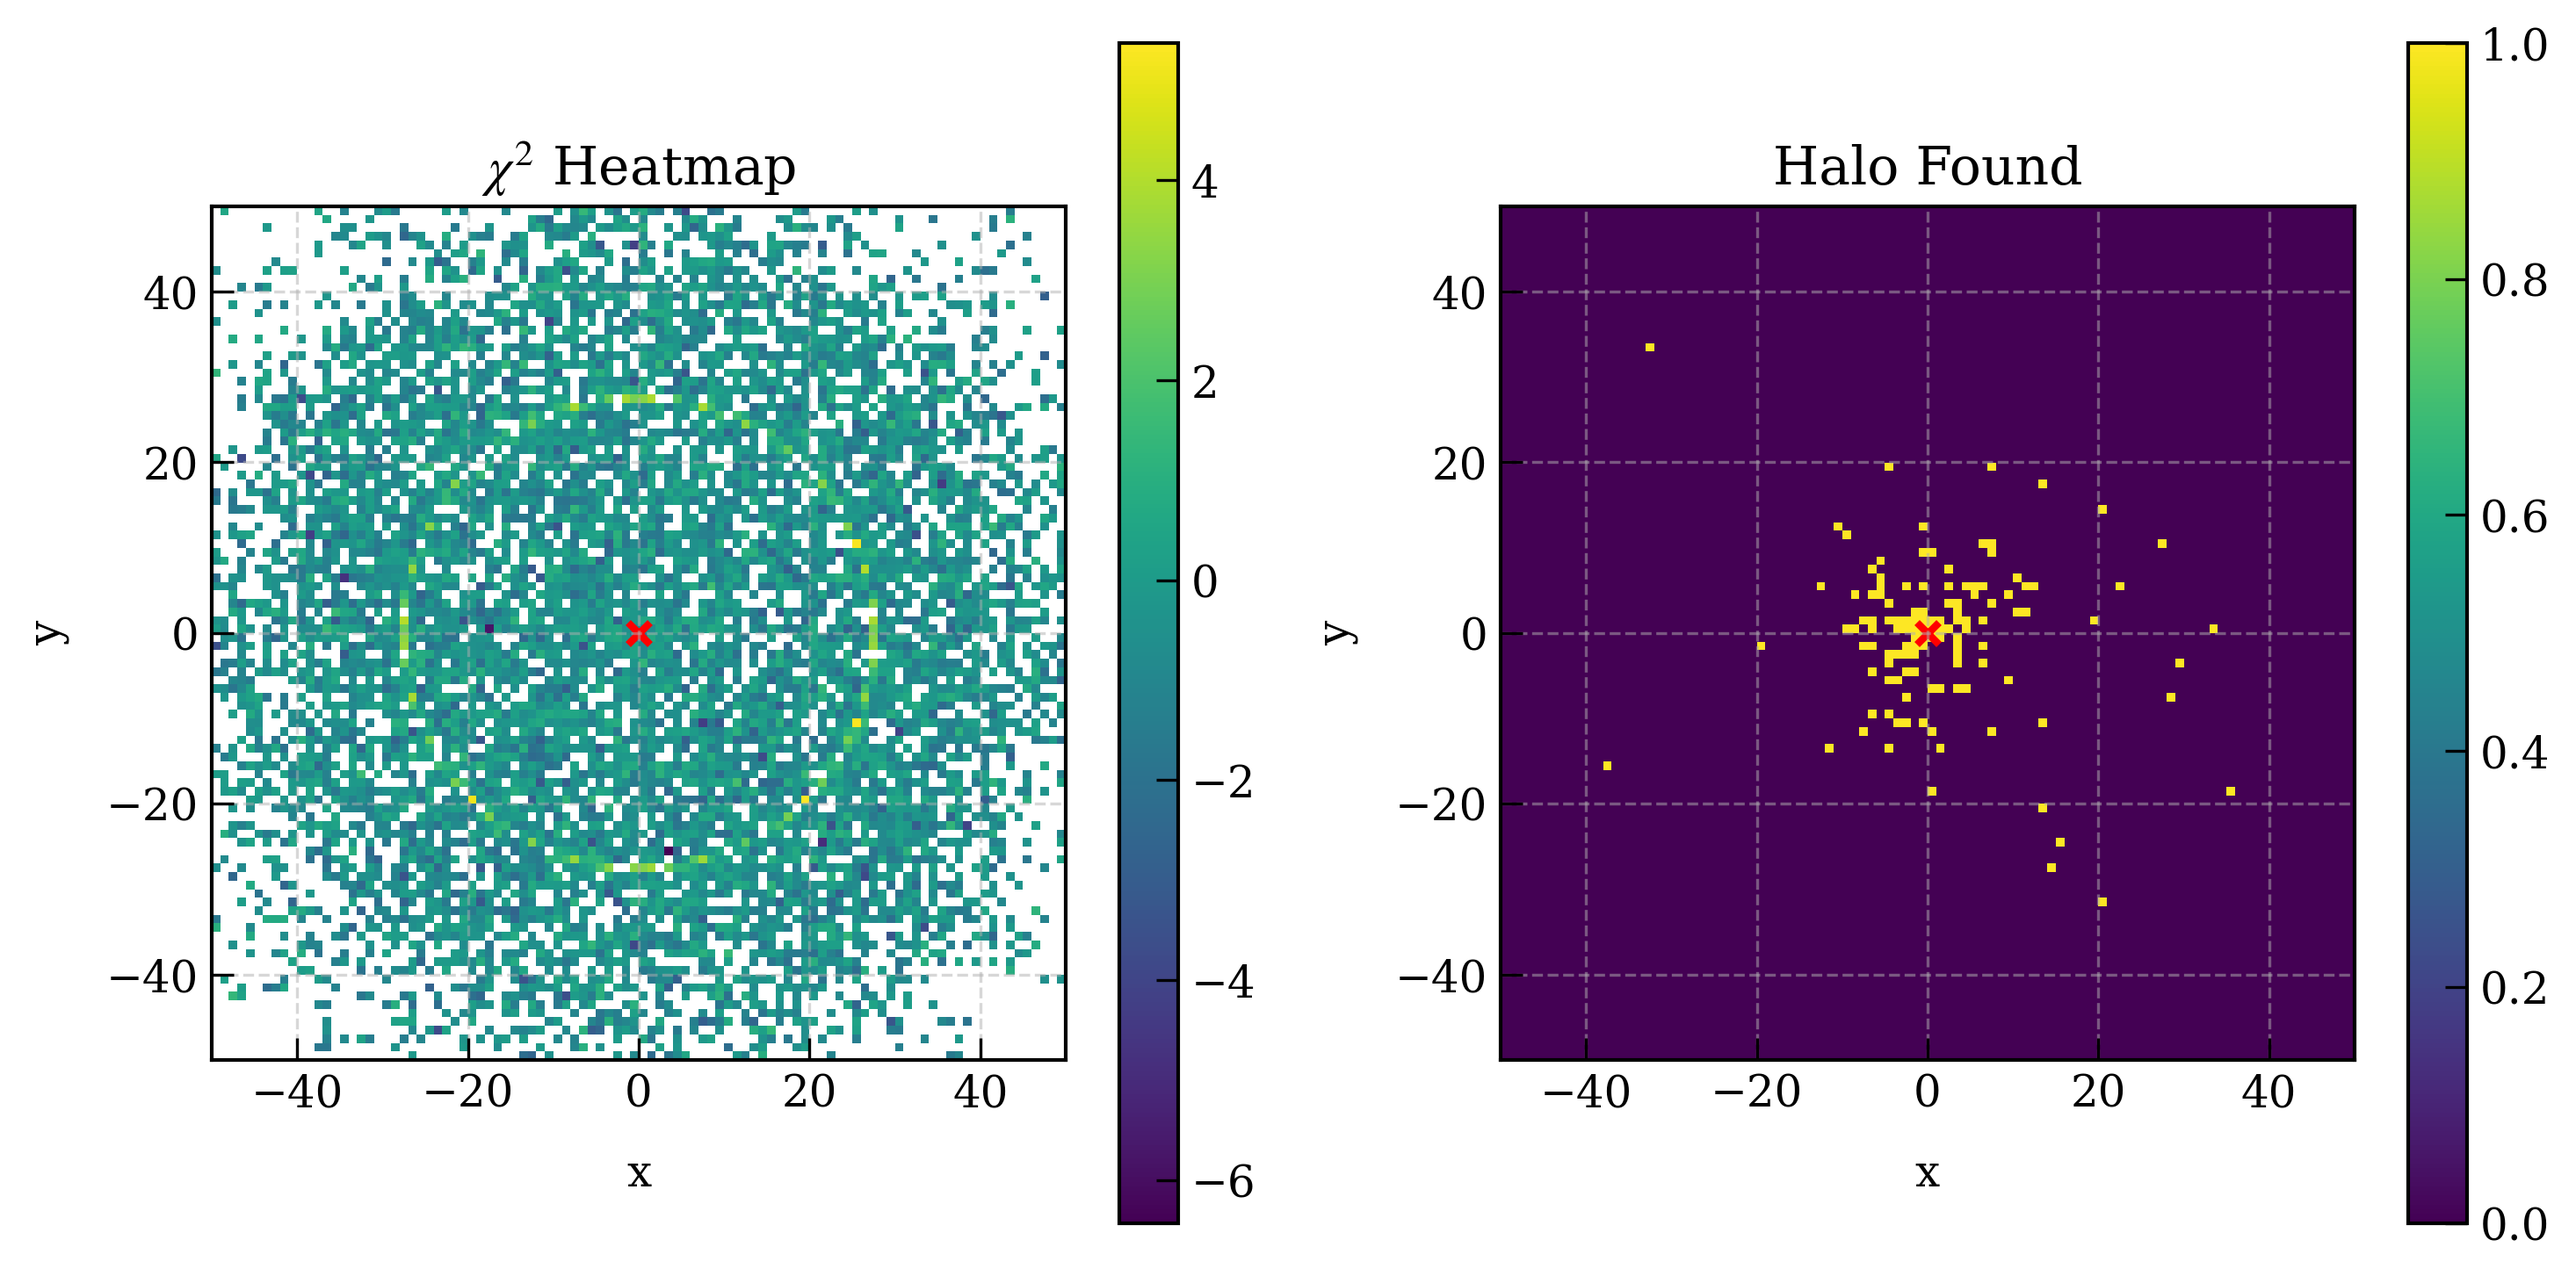
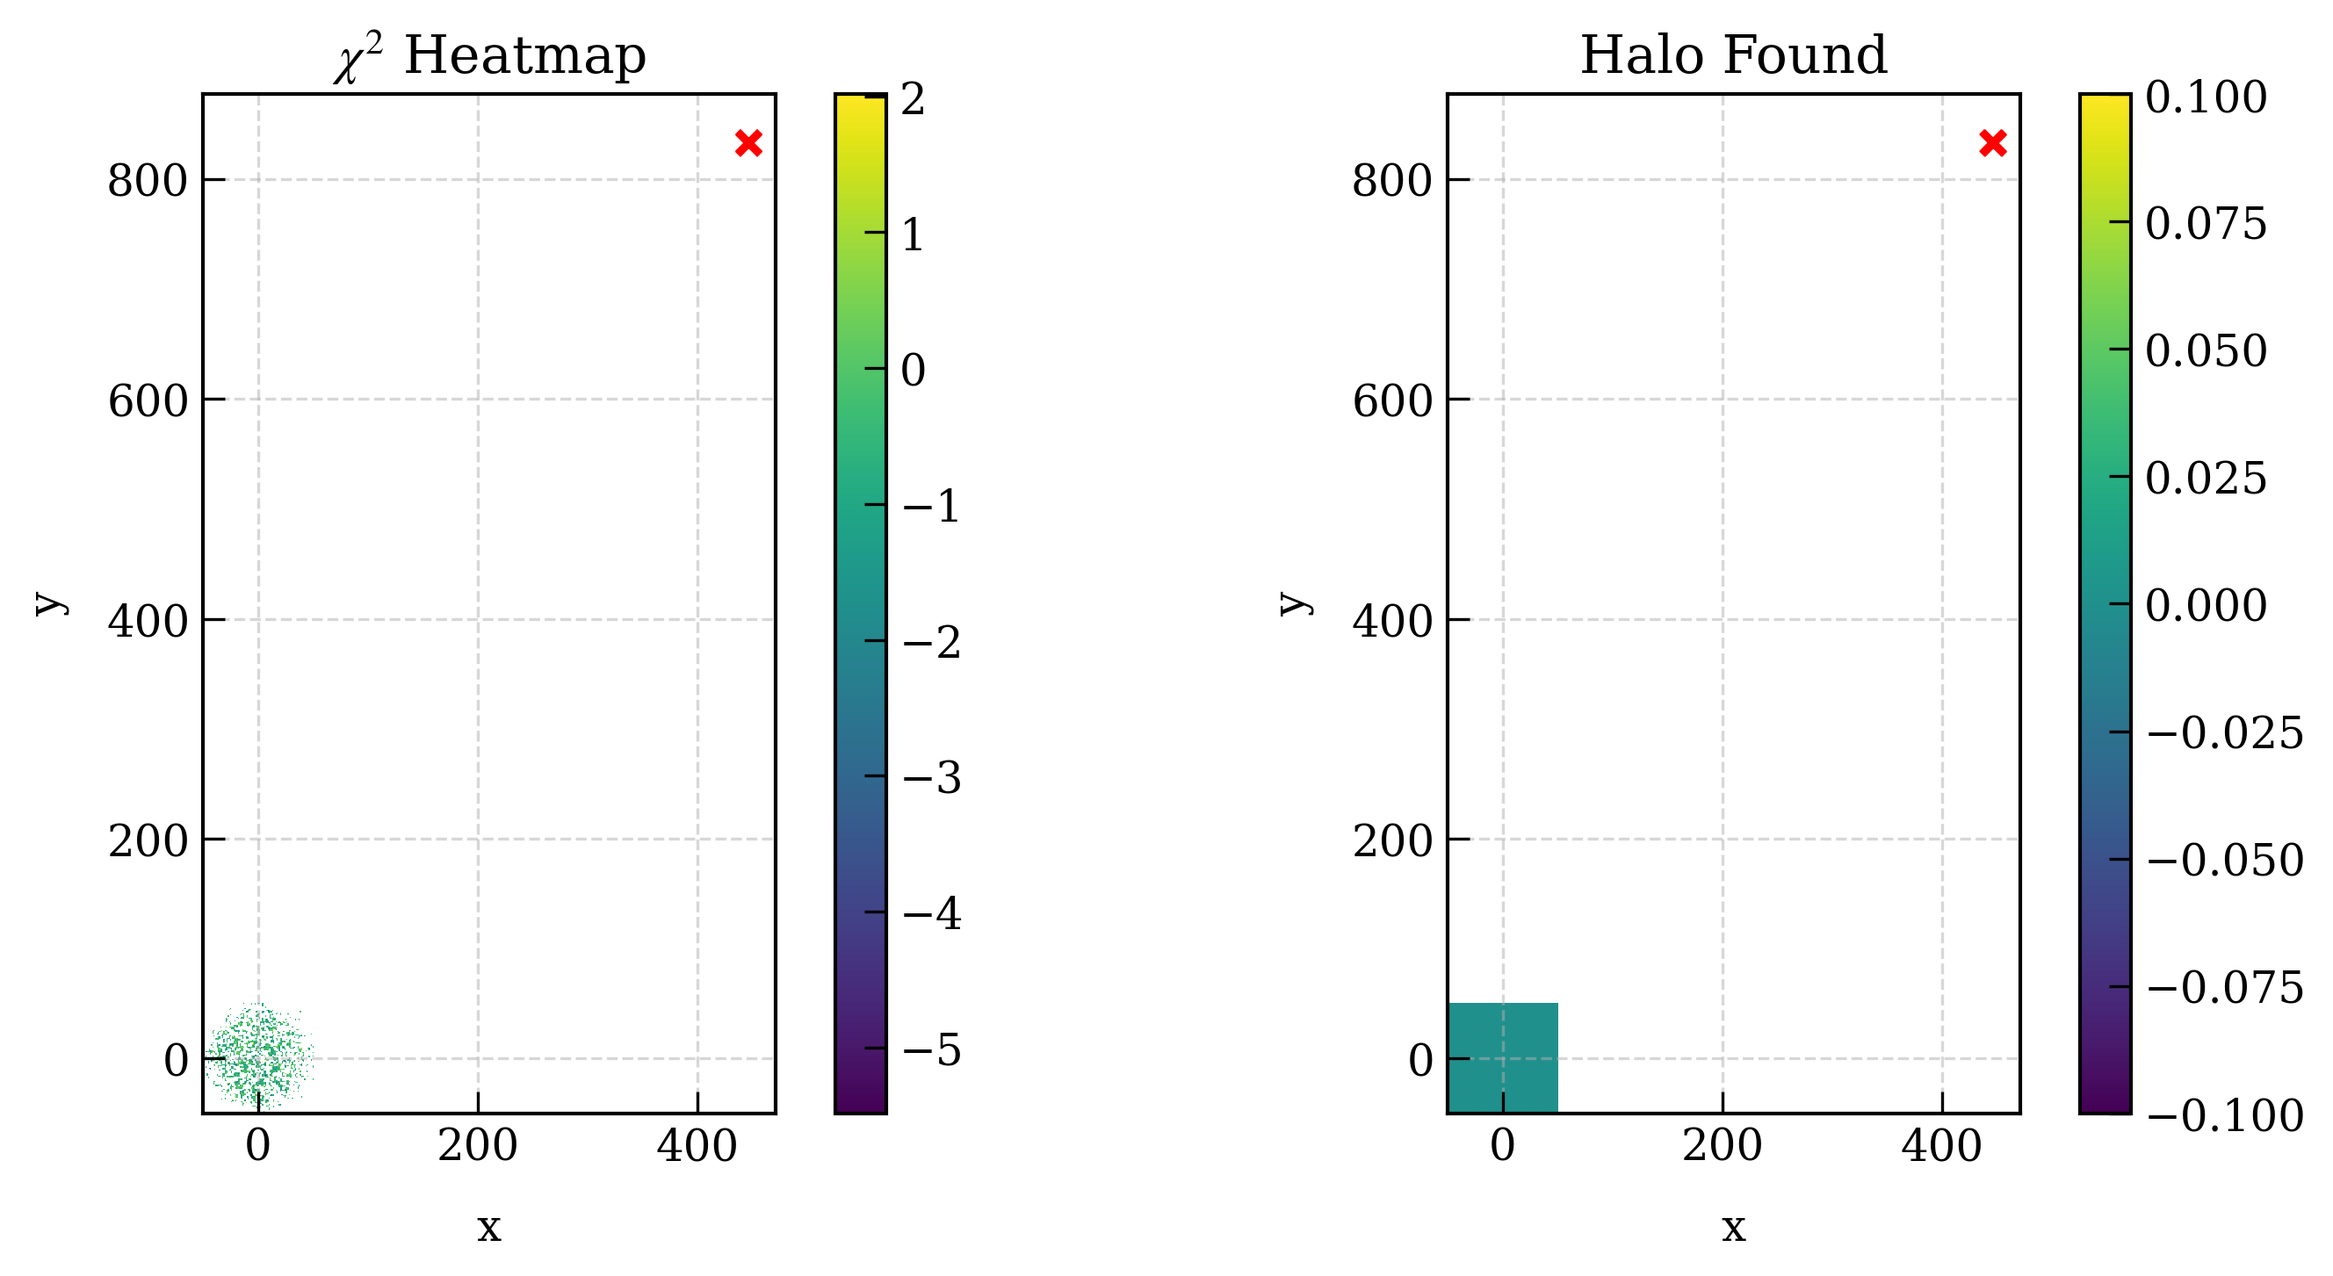
Fixed halo positioning in test

diff --git a/mdark.py b/mdark.py
@@ -1236,6 +1236,31 @@ def test_nfw_lensing():
     
     halos = find_halos([ID], zs)
     halo = halos[ID]
+    # Correct positioning
+    halos.project_to_2D()
+    d = cosmo.angular_diameter_distance(zs).to(u.meter).value
+    halos.x *= (3.086 * 10**22 / d) * 206265
+    halos.y *= (3.086 * 10**22 / d) * 206265
+
+    lenses = halos # Placeholder for the lenses
+
+    # Center the lenses at (0, 0)
+    # This is a necessary step for the pipeline
+    # Let the centroid be the location of the most massive halo
+    # This will be where we expect to see the most ligwht, which
+    # means it will be where observations are centered
+
+    largest_halo = np.argmax(halos.mass)
+    centroid = [halos.x[largest_halo], halos.y[largest_halo]]
+    lenses.x -= centroid[0] 
+    lenses.y -= centroid[1] 
+
+    xmax = np.max((lenses.x**2 + lenses.y**2)**0.5)
+    
+    # Don't allow the field of view to be larger than 2 arcminutes - or smaller than 1 arcminute
+    xmax = np.min([xmax, 3*60])
+    xmax = np.max([xmax, 1*60])
+
     indices = np.argsort(halo.mass)[::-1][:3]
     halo.x = halo.x[indices]
     halo.y = halo.y[indices]
